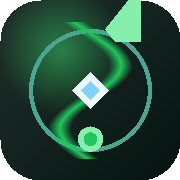
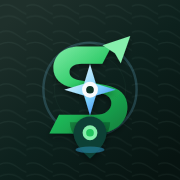
v4.9.56: 4.9.56: icono maskable de verdad (fondo a sangre, contenido a salvo)
Feedback sobre la 4.9.55: el icono seguia viendose mal - "cuadrado
sobre circulo redondo". No era la pantalla de carga: manifest.webmanifest
marca el icono como "purpose": "any maskable", asi que el sistema le
aplica SU PROPIA mascara encima (circular, la que sea el launcher).
El icono ya traia su propia esquina redondeada (rx=228) y parte del
dibujo llegaba casi al borde - ahi nace el choque de dos mascaras.

Arreglo en el SVG fuente (frontend/public/saga-app-icon.svg):
- Fondo sin rx, a sangre completa (los 4 bordes)
- Todo el dibujo reescalado al 78% y recentrado dentro del circulo de
  seguridad de 410px que pide icon.spec.whatwg.org
- Regenerados los tres PNG (180/192/512) desde el SVG con Playwright
  (sim/playwright-bench, el mismo arnes de 4.9.54, ahora tambien sirve
  para renderizar assets)
- Splash screen: el icono pasa a border-radius 50% - ya no hay nada
  que recorte mal, el dibujo vive a salvo del borde
- Version de cache (?v=) subida en index.html y en el manifest, para
  que Cloudflare/el navegador no sigan sirviendo el icono viejo

Verificado con captura real antes/despues contra el tema de
produccion. Suite completa 533/533.

diff --git a/frontend/index.html b/frontend/index.html
@@ -12,11 +12,11 @@
     <meta name="apple-mobile-web-app-capable" content="yes" />
     <meta name="apple-touch-fullscreen" content="yes" />
     <meta name="apple-mobile-web-app-status-bar-style" content="black-translucent" />
-    <link rel="icon" type="image/png" sizes="192x192" href="/saga-app-icon-192.png?v=177-final" />
-    <link rel="icon" type="image/svg+xml" href="/saga-app-icon.svg?v=177-final" />
-    <link rel="shortcut icon" href="/saga-app-icon-192.png?v=177-final" />
-    <link rel="apple-touch-icon" sizes="180x180" href="/apple-touch-icon.png?v=177-final" />
-    <link rel="apple-touch-icon-precomposed" sizes="180x180" href="/apple-touch-icon-precomposed.png?v=177-final" />
+    <link rel="icon" type="image/png" sizes="192x192" href="/saga-app-icon-192.png?v=182-icono-redondo" />
+    <link rel="icon" type="image/svg+xml" href="/saga-app-icon.svg?v=182-icono-redondo" />
+    <link rel="shortcut icon" href="/saga-app-icon-192.png?v=182-icono-redondo" />
+    <link rel="apple-touch-icon" sizes="180x180" href="/apple-touch-icon.png?v=182-icono-redondo" />
+    <link rel="apple-touch-icon-precomposed" sizes="180x180" href="/apple-touch-icon-precomposed.png?v=182-icono-redondo" />
   </head>
   <body>
     <div id="root"></div>

diff --git a/frontend/src/player/components/SplashScreen.tsx b/frontend/src/player/components/SplashScreen.tsx
@@ -69,13 +69,19 @@ export const SplashScreen: React.FC<SplashScreenProps> = ({
         {/* El resplandor de fuego: quieto. Ver la nota de abajo. */}
         <span className="saga-splash-halo" />
         <img
-          src="/saga-app-icon-192.png"
+          src="/saga-app-icon-192.png?v=redondo"
           alt="SAGA"
           style={{
             position: 'relative',
             width: 116,
             height: 116,
-            borderRadius: 'var(--theme-radius-panel)',
+            // Redondo de verdad, no la esquina cortada del tema. El icono
+            // en sí ya venía a sangre completa hasta el borde -lo pedía la
+            // especificación de iconos "maskable" del manifest, ver
+            // saga-app-icon.svg-, así que recortarlo en redondo aquí no
+            // corta nada importante: el dibujo ya vive dentro de la zona
+            // segura central.
+            borderRadius: '50%',
             boxShadow: '0 10px 40px rgba(0,0,0,.55)',
             animation: 'sagaSplashPulse 2.4s infinite ease-in-out',
           }}

diff --git a/docs/plan-de-mejora.md b/docs/plan-de-mejora.md
@@ -31,6 +31,35 @@ exactamente el que usa un móvil con el permiso ya dado.
 animar en cuanto lo detecta a 0×0, antes de calcular ningún centro. Medido:
 3 de 3 caídas antes, 0 de 2 después, mismo camino exacto.
 
+## 0.9 El icono no era "maskable" de verdad — ✅ en 4.9.56
+
+Feedback sobre la 4.9.55: "el icono cuadrado sobre ese círculo redondo... o
+mejor rediseñar ese icono". No era solo gusto: el `manifest.webmanifest`
+marca el icono como `"purpose": "any maskable"` -Android (y quien lo pida)
+le aplica SU PROPIA máscara encima, del launcher que sea, sea circular o lo
+que sea-. Pero el icono tenía su propia esquina redondeada ya cocinada
+(`rx="228"` en `saga-app-icon.svg`), y parte del dibujo -la punta de la
+bandera del arrow, el pin de abajo- llegaba casi al borde. Cuando el sistema
+le encima OTRA máscara, ahí nace de verdad el "cuadrado sobre círculo": no
+era la pantalla de carga, era el propio icono el que no seguía la
+especificación de iconos maskable (fondo a sangre completa, contenido
+importante dentro del círculo de seguridad central).
+
+**Arreglo, en el SVG fuente** (`frontend/public/saga-app-icon.svg`, el resto
+son PNGs derivados): fondo sin `rx` -a los cuatro bordes-, todo el dibujo
+(la S, la brújula, el pin, los anillos decorativos) reescalado al 78% y
+recentrado para caber dentro del círculo de seguridad de 410 px que pide
+`icon.spec.whatwg.org`. Regenerados `saga-app-icon-180/192/512.png` desde
+ese SVG con Playwright (`sim/playwright-bench`, el mismo arnés del punto
+0.7, ahora también sirve para renderizar assets), y en la pantalla de
+carga, el `<img>` pasa a `border-radius: 50%` -ya no hay nada que recorte
+mal, porque el dibujo ya vive a salvo del borde-. Versión de caché
+(`?v=...`) subida en `index.html` y en el propio manifest, para que ni
+Cloudflare ni el navegador sigan sirviendo el icono viejo.
+
+Verificado con captura real antes/después. Suite completa 533/533 (cambio
+solo de assets + frontend).
+
 ## 0.8 La pantalla de carga en fuego: tres geometrías compitiendo — ✅ en 4.9.55
 
 Feedback directo con la primera captura real de esta sesión: "pantalla de
